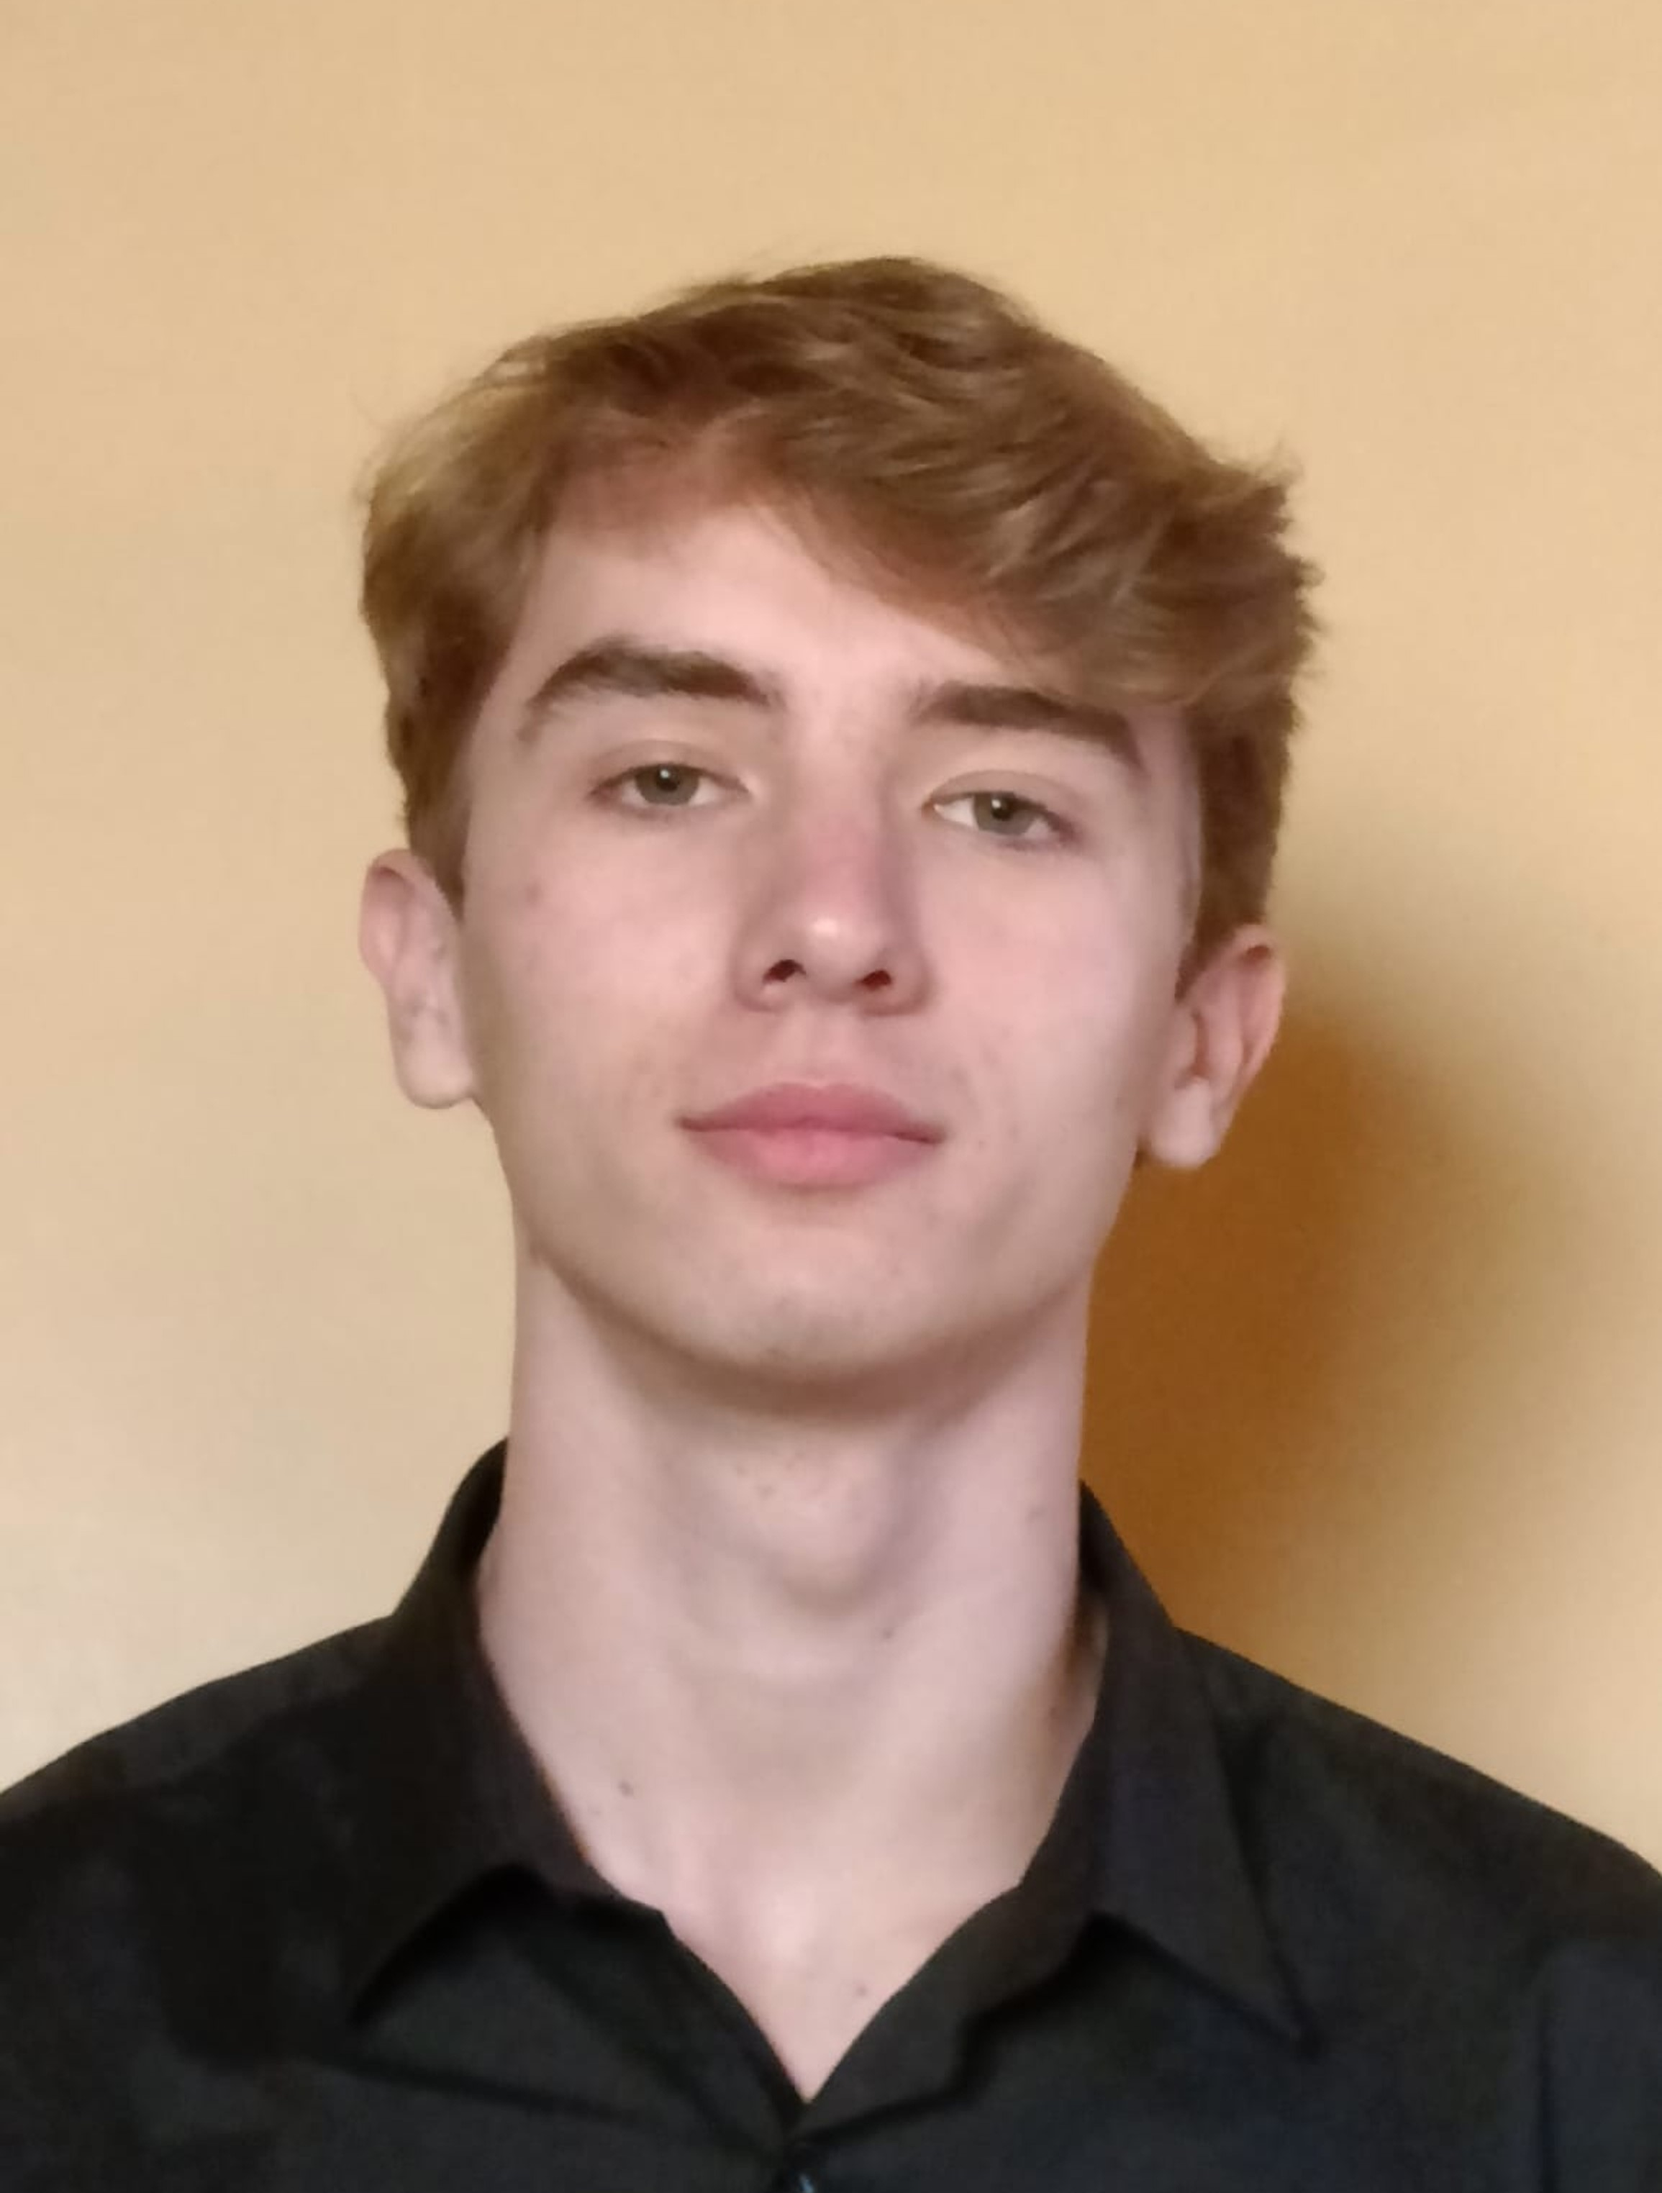
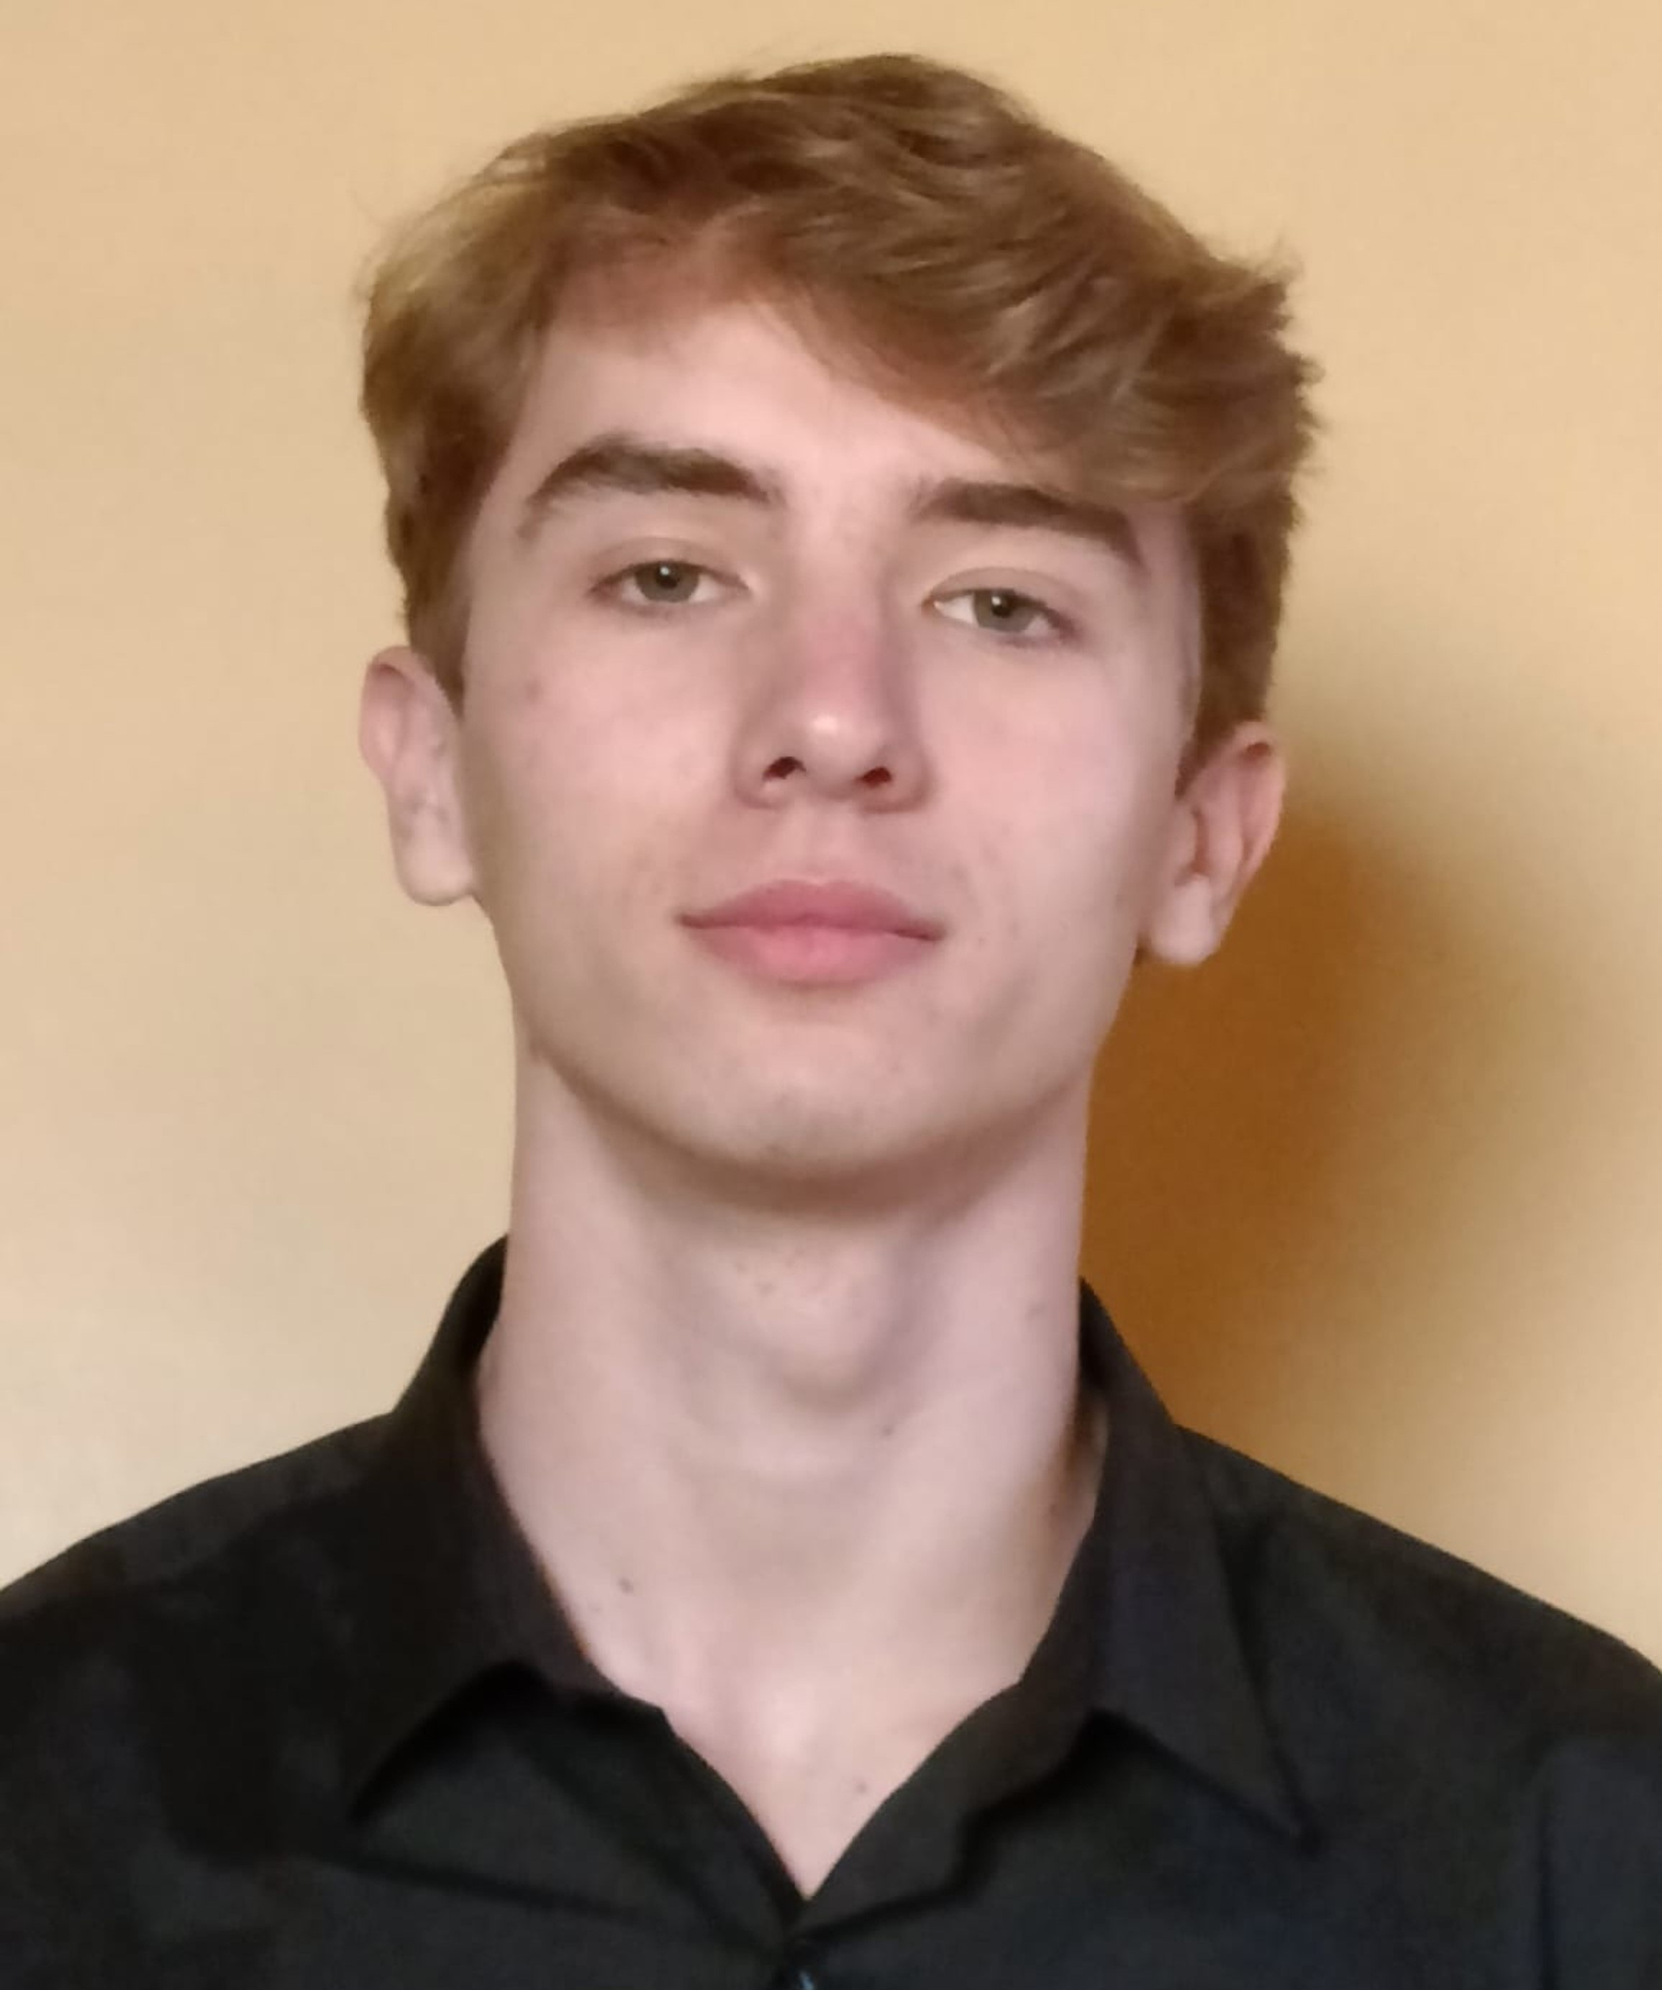
casi terminado sobre

diff --git a/styles.css b/styles.css
@@ -3,13 +3,13 @@
 @import url('https://fonts.googleapis.com/css2?family=Josefin+Sans:wght@100&family=Outfit:wght@600&display=swap');
 @import url('https://fonts.googleapis.com/css2?family=Josefin+Sans:wght@100&family=Lexend:wght@300&family=Outfit:wght@600&display=swap');
 :root{
-    --uno:#F9F9C5;
-    --dos:#F37878;
-    --tres:#ffffff;
-    --cuatro:#FAD9A1;
+    --uno:#FFC288;
+    --dos:#363333;
+    --tres:#FF6701 ;
+    --cuatro:#FCECDD;
     
 }
-
+FCECDD
 
 body{
     background-color: var(--uno);
@@ -69,7 +69,7 @@ nav > #enlaces > a{
     padding: 5px;
     color: var(--dos);
     border-right: 2px solid var(--dos);
-    transition: all ease 0.2s;
+    transition: all linear 0.05s;
     opacity: 0;
     overflow: hidden;
     
@@ -77,7 +77,8 @@ nav > #enlaces > a{
 
 nav > #enlaces > a:hover{
     color: var(--tres);
-    
+    border-right: 4px solid var(--tres);
+    transform: scale(1.1);
 }
 
 
@@ -104,6 +105,7 @@ nav > #enlaces > a:hover{
 main{
     margin: auto;
     width: 1144px;
+    color: var(--dos);
 }
 
 article{
@@ -112,7 +114,9 @@ article{
     margin-bottom: 100px;
 }
 
-
+b{
+    color: var(--tres);
+}
 
 
 #Inicio > section{
@@ -146,11 +150,6 @@ article{
 }
 
 
-
-#SS{
-    color: var(--tres);
-
-}
 
 
 
@@ -187,8 +186,6 @@ article{
     }
 }
 
-
-
 #iconGmail{
     position: relative;
     z-index: 3;
@@ -201,7 +198,7 @@ article{
     top: -32px;
     z-index: 1;
     background-color: var(--dos);
-    color: var(--tres);
+    color: var(--cuatro);
     border-radius: 20px;
     width: 50px;
     font-size: 10px;
@@ -228,17 +225,74 @@ article{
 }
 
 
-#SobreMi > section:first-child{
-    position: absolute;
-    top: 20%;
+#SobreMi{
+   position: relative;
+   
 }
 
 #imgSS{
-    position: absolute;
-    top: 0;
-    right: 5px;
-    width: 200px;
+    float: right;
+    width: 300px;
+    border:10px dashed var(--tres);
 
-    border-radius: 300px;
-    shape-outside: circle(55%);
+    border-radius: 200px;
+    shape-outside: circle(50%);
 }
+
+#Soy1{
+    position: absolute;
+    top: 13%;
+}
+
+
+#Soy1 > h2{
+    font-size: 60px;
+    margin: 5px 0;
+}
+
+#Soy1 > p{
+    font-size: 24px;
+}
+
+#Soy2{
+    position: absolute;
+    top: 65%;
+    text-align: center;
+}
+
+#Soy2{
+    display: flex;
+    justify-content: center;
+    align-items: center;
+    gap: 35px;
+    flex-wrap: wrap;
+}
+
+#Soy2 > div{
+    width: 500px;
+    height: 240px;
+    background-color: var(--cuatro);
+    border-bottom: var(--dos) 3px dashed;
+    border-right: var(--dos) 3px dashed;
+    border-radius: 100px;
+    padding: 20px;
+
+}
+
+#Soy2 > div > h3{
+    margin: 0px 0;
+    font-size: 30px;
+    transition: all 0.4s linear;
+}
+
+#Soy2 > div > h3:hover{
+    transform: scale(1.2);
+    color: var(--tres);
+}
+
+#Soy2 > div > p{
+    margin: 10px 0 20px 0;
+    font-size: 20px;
+}
+
+

diff --git a/index.html b/index.html
@@ -54,22 +54,42 @@
 
         </article>
         <article  id="SobreMi">
-            <section>
+            <section id="Soy1">
 
-                <h2>Quien soy?</h2>
+                <img id="imgSS" src="img/fotoCV-t.jpeg" alt="Agus">
+
+                <h2>Quien soy<b>?</b></h2>
                 <p>
-                    Mi nombre es Agustín Prieto Atienza, y desde mi infancia, he sentido una fascinación por la tecnología, lo que me llevó a explorar 
+                    Mi nombre es <b>Agustín Prieto Atienza</b>, y desde mi infancia, he sentido una fascinación por la tecnología, lo que me llevó a explorar 
                     el funcionamiento de los ordenadores y la fluidez de la electricidad. Con el tiempo, descubrí el apasionante mundo de la programación 
                     y su increíble comunidad.</p>
                 <p> 
-                    Mi deseo es dedicarme profesionalmente al desarrollo web, ya que encuentro gratificante mejorar mis habilidades constantemente y seguir 
-                    aprendiendo. Ahora, a mis 18 años, tengo la oportunidad de estudiar lo que realmente me apasiona.
+                    Mi deseo es dedicarme profesionalmente al <b>desarrollo web</b>, ya que encuentro gratificante mejorar mis habilidades constantemente y seguir 
+                    aprendiendo. Ahora, a mis <b>18 años</b>, tengo la oportunidad de estudiar lo que realmente me apasiona.
                 </p>
-
-                <img id="imgSS" src="img/fotoCV-t.jpeg" alt="Agus">
-                
+  
             </section>
-            <section></section>
+            <section id="Soy2">
+                <div>
+                    <h3>Experiencia</h3>
+                    <p>
+                        Prácticas de instalación y mantenimiento de redes, desarrollando sólidas habilidades en infraestructuras tecnológicas.
+                    </p>
+                    <p>
+                        Prácticas de instalación y mantenimiento de redes, desarrollando sólidas habilidades en infraestructuras tecnológicas.
+                    </p>
+                </div>
+                <div>
+                    <h3>Erasmus<b>+</b></h3>
+                    <p>
+                        Participación en el programa Erasmus en Viena a los 17 años con prácticas laborales durante tres meses, ampliando mi visión profesional.
+                    </p>
+                    <p>
+                        Experiencia que demostró mi capacidad para vivir de manera independiente y superar desafíos en el extranjero. 
+                        Dispuesto a repetirla para seguir mi crecimiento personal y profesional.
+                    </p>
+                </div>
+            </section>
 
         </article>
         <article></article>
